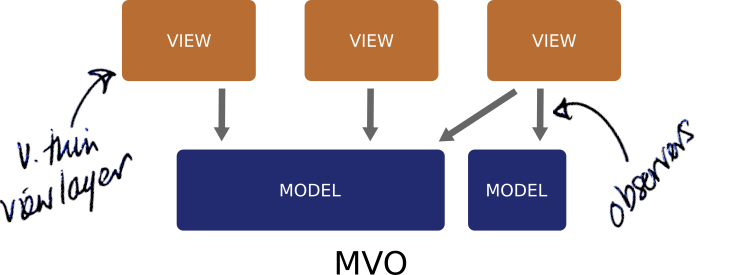
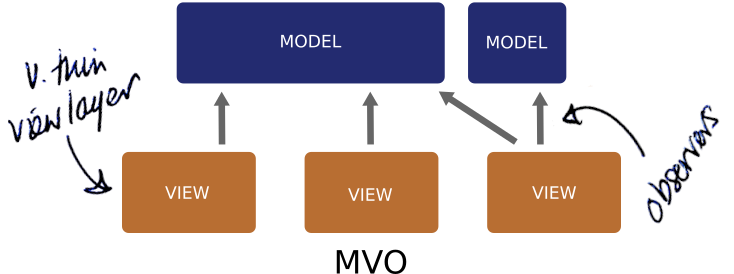
docs

diff --git a/docs/README.md b/docs/README.md
@@ -43,7 +43,13 @@ There are also a few tutorials on dev.to [like this one](https://dev.to/erdo/tut
 
 ## Overview
 
-The main innovation in **fore** is its radically simplified observer implementation. This lets you separate architectural layers to a degree that would not normally be possible. It also encourages the development of genuinely reactive code at the view layer (you can't use the API to replace a callback with a Single&lt;Boolean&gt; and think you're done for example - what you would have there is just another callback, not reactive code per se).
+Imagine your app existing entirely separately from its UI (its UI could be a command line interface, or a GUI - the app shouldn't care or even know what type of UI it has). Then imagine the UI layer as a thin window on to this app, free to deal exclusively with _what things look like_.
+
+This is a goal of a lot of architectures and it's a great way to develop anything that has a UI. It's especially helpful for a platform like android with its ephemeral view layer that gets destroyed and recreated on rotation. It also lets you unit test almost everything, the UI layer becoming as close to trivial as possible.
+
+## Observability is the key
+
+The main innovation in **fore** is its radically simplified observer implementation. This lets you separate architectural layers to a degree that would not normally be possible.
 
 Fore's observable classes let you **make anything observable** (usually it's repositories or classes in the domain layer that are made **observable**, and things in the view layer like activities, fragments or custom views do the **observing**).
 
@@ -161,7 +167,9 @@ override fun syncView() {
 
 Here's a very basic example from one of the example kotlin apps included in the fore repo: [View](https://github.com/erdo/android-fore/blob/master/example-kt-01reactiveui/src/main/java/foo/bar/example/forereactiveuikt/ui/wallet/WalletsActivity.kt) and [Model](https://github.com/erdo/android-fore/blob/master/example-kt-01reactiveui/src/main/java/foo/bar/example/forereactiveuikt/feature/wallet/Wallet.kt) code, and the tests: a [Unit Test](https://github.com/erdo/android-fore/blob/master/example-kt-01reactiveui/src/test/java/foo/bar/example/forereactiveuikt/feature/wallet/WalletTest.kt) for the Model, and an [Espresso Test](https://github.com/erdo/android-fore/blob/master/example-kt-01reactiveui/src/androidTest/java/foo/bar/example/forereactiveuikt/ui/wallet/WalletsActivityTest.kt) for the View
 
-The view layer tends to be particularly sparse when implementing MVO with **fore**, and the apps are highly scalable from a complexity standpoint, so **fore** works for both quick prototypes, and large complex commercial projects with 100K+ lines of code.
+In that example the wallet state is being exposed via getters / properties, but the state could just as well be exposed via a single immutable state - it's entirely up to you how to write your code, it makes no difference to the syncView() technique.
+
+**fore** enables you to write view layers that are particularly sparse, and the apps are highly scalable from a complexity standpoint. This makes **fore** suitable for both quick prototypes, and large complex commercial projects with 100K+ lines of code.
 
  Specifically _why_ it is that apps written this way are both sparse _and_ scalable is not always immediately obvious. This [discussion](https://erdo.github.io/android-fore/03-reactive-uis.html#somethingchanged-parameter) gets into the design of the **fore** api and why it drastically reduces boiler plate for a typical android app compared with alternatives. Some of the dev.to tutorials (see above) also touch on this. But these are subtle, advanced topics that are not really necessary to use **fore** at all - most of the actual code in the fore library is quite simple.
 
@@ -176,7 +184,7 @@ In a nutshell, developing with **fore** means writing:
 
 > "Observable **Models**; **Views** doing the observing; and some **Reactive UI** tricks to tie it all together"
 
-In [**MVO**](https://erdo.github.io/android-fore/00-architecture.html#shoom) (like with most MV* architectures) the model knows nothing about the View. When the view is destroyed and recreated, the view re-attaches itself to the model in line with the observer pattern and syncs its view. Any click listeners or method calls as a result of user interaction are sent directly to the relevant model. With this architecture you remove a lot of problems around lifecycle management and handling rotations, it also turns out that the code to implement this is a lot less verbose **(and it's also very testable and scalable)**.
+In [**MVO**](https://erdo.github.io/android-fore/00-architecture.html#shoom) (like with most MV* architectures) the model knows nothing about the View. When the view is destroyed and recreated, the view re-attaches itself to the model in line with the observer pattern and syncs its view. Any click listeners or method calls as a result of user interaction are sent directly to the relevant model (be that an application level scoped model, or a ViewModel). With this architecture you remove a lot of problems around lifecycle management and handling rotations on android, it also turns out that the code to implement this is a lot less verbose **(and it's also very testable and scalable)**.
 
 **There are a few important things in MVO that allow you an architecture this simple:**
 
@@ -187,9 +195,9 @@ In [**MVO**](https://erdo.github.io/android-fore/00-architecture.html#shoom) (li
 
 If you totally grok those 4 things, that's pretty much all you need to use **fore** successfully, the [**code review guide**](https://erdo.github.io/android-fore/05-extras.html#troubleshooting--how-to-smash-code-reviews) should also come in handy as you get up to speed, or you bring your team up to speed.
 
-The **fore** library also includes some testable wrappers for AsyncTask (that Google should have provided, but didn't): [**Async**](https://erdo.github.io/android-fore/04-more-fore.html#asynctasks-with-lambdas) and [**AsyncBuilder**](https://erdo.github.io/android-fore/04-more-fore.html#asyncbuilder) - which support lambdas, making using them alot nicer to use.
+The **fore** library also includes a few fore [extension functions](https://github.com/erdo/android-fore/blob/master/fore-core-kt/src/main/java/co/early/fore/kt/core/coroutine/Ext.kt) that are all you need to use coroutines in a way that makes them completely testable (something that is [still](https://github.com/Kotlin/kotlinx.coroutines/pull/1206), [pending](https://github.com/Kotlin/kotlinx.coroutines/pull/1935) in the official release).
 
-If you've moved over to using coroutines already, a few fore [extension functions](https://github.com/erdo/android-fore/blob/master/fore-core-kt/src/main/java/co/early/fore/kt/core/coroutine/Ext.kt) are all you need to use coroutines in a way that makes them completely testable (something that is [still](https://github.com/Kotlin/kotlinx.coroutines/pull/1206) [pending](https://github.com/Kotlin/kotlinx.coroutines/pull/1935) in the official release).
+For Java development, there are some testable wrappers for AsyncTask (that Google should have provided, but didn't) [**Async**](https://erdo.github.io/android-fore/04-more-fore.html#asynctasks-with-lambdas) and [**AsyncBuilder**](https://erdo.github.io/android-fore/04-more-fore.html#asyncbuilder) - which support lambdas, making threads very easy to use.
 
 There are also optional extras that simplify [**adapter animations**](https://erdo.github.io/android-fore/04-more-fore.html#adapter-animations) and abstract your networking layer when using [**Retrofit2**, **Ktor** or **Apollo**](https://erdo.github.io/android-fore/04-more-fore.html#fore-network). **fore** works really well with RoomDB too, checkout the sample app for details.
 
@@ -197,7 +205,7 @@ There are also optional extras that simplify [**adapter animations**](https://er
 
 ![all samples](img/screenshot_asaf_samples_phone_all_1000.png)
 
-The apps here are deliberately sparse and ugly so that you can see exactly what they are doing. These are not examples for how to nicely structure XML layouts or implement ripple effects - all that you can do later in the **View** layers and it should have no impact on the stability of the app.
+The mini example apps included with the repo are deliberately sparse and ugly so that you can see exactly what they are doing. These are not examples for how to nicely structure XML layouts and they are not written using jetpack compose yet - all that you can do later in the **View** layers and it should have no impact on the stability of the app.
 
 These apps are however, totally robust and comprehensively tested (and properly support rotation). And that's really where you should try to get to as quickly as possible, so that you can **then** start doing the fun stuff like adding beautiful graphics and cute animations.
 
@@ -226,7 +234,7 @@ In the app you move money from a "Savings" wallet to a "Mobile" wallet and then 
 
 This one demonstrates asynchronous programming, and importantly how to test it. The **java** version uses ([Async](https://erdo.github.io/android-fore/04-more-fore.html#async) and [AsyncBuilder](https://erdo.github.io/android-fore/04-more-fore.html#asyncbuilder)), the **kotlin** version uses coroutines (with some [fore extensions](https://github.com/erdo/android-fore/blob/master/fore-core-kt/src/main/java/co/early/fore/kt/core/coroutine/Ext.kt) that make the coroutines unit testable). Again, it's a bare bones (but complete and tested) app - just the minimum required to demonstrate asynchronous programming.
 
-This app has a counter that you can increase by pressing a button (but it takes time to do the increasing - so you can rotate the device, background the app etc and see the effect). There are two methods demonstrated: one which uses lambda expressions (for java), and one which publishes progress.
+This app has a counter that you can increase by pressing a button (but it takes time to do the increasing - so you can rotate the device, background the app etc and see the effect).
 
 <div class="shoom" id="fore-3-adapter-example"/>
 ### **fore 3** Adapter Example
@@ -235,13 +243,13 @@ This app has a counter that you can increase by pressing a button (but it takes 
 
 ![fore adapters sample app](img/fore-android-sample-adapters.gif)
 
-This one demonstrates how to use [**adapters**](https://erdo.github.io/android-fore/04-more-fore.html#adapter-animations) with **fore** (essentially call notifyDataSetChanged() inside the syncView() method).
-
-To take advantage of the built in list animations that Android provides. Once you have set your adapter up correctly, you can instead call notifyDataSetChangedAuto() inside the syncView() method and **fore** will take care of all the notify changes work. (You could also use **fore**'s notifyDataSetChangedAuto() to do this for you from your render() function if you're using MVI / MvRx or some flavour of Redux).
+This one demonstrates how to use [**adapters**](https://erdo.github.io/android-fore/04-more-fore.html#adapter-animations) with **fore**.
 
 The **java** sample has two lists side by side so you can see the how the implementation differs depending on if you are backed by immutable list data (typical in architectures that use view states such as MVI) or mutable list data. As usual it's a complete and tested app but contains just the minimum required to demonstrate adapters.
 
 The **kotlin** version has three lists, adding an implementation of google's **AsyncListDiffer**. All three implementations have slightly different characteristics, most notably the google version moves logic out of the model and into the adapter (that's why it doesn't automatically support rotation - but it could be added easiy enough by passing an external list copy to the adapter). Check the source code for further infomation.
+
+The UI for each app is deliberately challenging to implement on android, and although it's ugly, the UI lets you smash buttons to not only add and remove multiple items, but also to change the state of each item in the list. All changes are animated, it supports rotation, it's totally robust and the UI layer is extremely thin for both apps.
 
 
 <div class="shoom" id="fore-4-retrofit-example"/>
@@ -262,7 +270,7 @@ As usual this is a complete and tested app. In reality the tests are probably mo
 <div class="shoom" id="fore-7-apollo-example"/>
 ### **fore 7** Apollo Example
 [source code (kotlin)](https://github.com/erdo/android-fore/tree/master/example-kt-07apollo)
-In a similar vein we have a networking sample that integrates with a GraphQL API using Apollo. Includes the ability to chain network calls together, support rotation, handle all error conditions gracefully, and is competely testable / tested (Unit tests and UI tests)
+In a similar vein we have a networking sample that integrates with a GraphQL API using Apollo. Includes the ability to chain network calls together, support rotation, handle all error conditions gracefully, and is competely testable / tested (Unit tests and UI tests) and of course has a wafer thin UI layer.
 
 <div class="shoom" id="fore-8-ktor-example"/>
 ### **fore 8** Ktor Example
@@ -287,9 +295,9 @@ A To-do list on steroids that lets you:
 
 It's obviously ridiculously contrived, but the idea is to implement something that would be quite challenging and to see how little code you need in the view layer to do it.
 
-It is driven by a Room db, and there are a few distinct architectural layers: as always there is a view layer and a model layer (in packages ui and feature). There is also a networking and a persistence layer. The UI layer is driven by the model which in turn is driven by the db.
+It is driven by a Room db, and there are a few distinct architectural layers: as always there is a view layer and a model layer (in packages: ui and feature). There is also a networking and a persistence layer. The UI layer is driven by the model which in turn is driven by the db.
 
-All the database changes are done away from the UI thread, RecyclerView animations using DiffUtil are supported (for lists below 1000 rows), the app is totally robust and supports rotation out of the box. There is a TodoListModel written in Java and one in Kotlin for convenience, in case you are looking to use these as starting points for your own code.
+All the database changes are done away from the UI thread, RecyclerView animations using DiffUtil are supported (for lists below 1000 rows), the app is totally robust and supports rotation out of the box.
 
 There is only one test class included with this app which demonstrates how to test Models which are driven by a Room DB (using CountdownLatches etc). For other test examples, please see sample apps 1-4
 

diff --git a/docs/00-architecture.md b/docs/00-architecture.md
@@ -8,7 +8,7 @@ This little library helps you implement an architecture we call **MVO (Model Vie
 
 That block diagram above is what MVO looks like (it's simplified of course, further details below).
 
-By [**Model**](https://erdo.github.io/android-fore/02-models.html#shoom) we mean the standard definition of a software model, there are no particular restrictions we will put on this model other than it needs to be somehow observable (when it changes, it needs to tell everyone observing it, that it changed) and it needs to expose its state via quick returning getter methods. The model can have application level scope, or it can be a View-Model - it makes no difference from an MVO perspective. (But mostly with MVO we are talking about application level things like AccountModel, MessageInboxRepository, TodoListManager, Favourites etc).
+By [**Model**](https://erdo.github.io/android-fore/02-models.html#shoom) we mean the standard definition of a software model, there are no particular restrictions we will put on this model other than it needs to be observable (when it changes, it needs to tell everyone observing it, that it changed) and it needs to expose its state somehow, via quick returning getters, properties or a single immutable state. The model can have application level scope, or it can be a View-Model - it makes no difference from an MVO perspective. (But mostly with MVO we are talking about application level things like AccountModel, MessageInboxRepository, TodoListManager, Favourites etc).
 
 By [**Observer**](https://en.wikipedia.org/wiki/Observer_pattern) we mean the standard definition of the Observable pattern. In MVO, the Views observe the Models for any changes. (This has nothing to do with Rx by the way, though you could implement an MVO architecture using Rx if you wanted to).
 
@@ -38,7 +38,7 @@ Notice the syncView() method does not take a parameter. It gets all it needs fro
 
 If you prefer using immutable state, just have your model expose that state via a property or a getter: (gameModel.currentState.score).
 
-*For the avoidance of doubt, most non-trivial apps will of course have more layers behind the model layer, typically you'll have some kind of repository, a networking abstraction etc. There are two slightly larger, more commercial style app examples to check out, though they are starting to get a little out of date: one in [Kotlin](https://github.com/erdo/fore-full-example-02-kotlin) and another in [Java](https://github.com/erdo/android-architecture) (which has a [tutorial](https://dev.to/erdo/tutorial-android-architecture-blueprints-full-todo-app-mvo-edition-259o) to go along with it).*
+*For the avoidance of doubt, most non-trivial apps will of course have more layers behind the model layer, typically you'll have some kind of repository, a networking abstraction etc. There are two slightly larger, more commercial style app examples to check out: one in [Kotlin](https://github.com/erdo/fore-full-example-02-kotlin) and another in [Java](https://github.com/erdo/android-architecture) (which has a [tutorial](https://dev.to/erdo/tutorial-android-architecture-blueprints-full-todo-app-mvo-edition-259o) to go along with it).*
 
 In a nutshell this is what we have with MVO:
 
@@ -64,7 +64,7 @@ If your team is getting on well with MVVM, here is where the ViewModel would fit
 
 ![data binding](img/app_arch_2_viewmodel.png)
 
-The Mobile Wallet Model / Wallet Fragment section of that diagram matches what is happening in [**sample app 1**](https://erdo.github.io/android-fore/#fore-1-reactive-ui-example). Here are the relevant bits of code: the [**observable model code**](https://github.com/erdo/android-fore/blob/master/example-kt-01reactiveui/src/main/java/foo/bar/example/forereactiveuikt/feature/wallet/Wallet.kt) and the [**view code**](https://github.com/erdo/android-fore/blob/master/example-kt-01reactiveui/src/main/java/foo/bar/example/forereactiveuikt/ui/wallet/WalletsActivity.kt) that does the observing. (That's the expressive style of doing things so that you can easily see what is happening, even that boilerplate is [optional](https://erdo.github.io/android-fore/03-reactive-uis.html#boiler-plate) though)
+The Mobile Wallet Model / Wallet Fragment section of that diagram matches what is happening in [**sample app 1**](https://erdo.github.io/android-fore/#fore-1-reactive-ui-example). Here are the relevant bits of code: the [**observable model code**](https://github.com/erdo/android-fore/blob/master/example-kt-01reactiveui/src/main/java/foo/bar/example/forereactiveuikt/feature/wallet/Wallet.kt) and the [**view code**](https://github.com/erdo/android-fore/blob/master/example-kt-01reactiveui/src/main/java/foo/bar/example/forereactiveuikt/ui/wallet/WalletsActivity.kt) that does the observing. (That's the expressive style of doing things so that you can easily see what is happening, even that boilerplate is [optional](https://erdo.github.io/android-fore/03-reactive-uis.html#boiler-plate) though, this is what an implementation of the [**same view**](https://github.com/erdo/persista/blob/main/example-app/src/main/java/foo/bar/example/ui/wallet/WalletsActivity.kt) looks like with the add and remove boiler plate removed).
 
 One great thing about MVO is that the view layer and the rest of the app are so loosely coupled, that supporting rotation already works out of the box. In the code examples above, the code just works if you rotate the screen simply because of how it's structured - you don't need to do a single thing.
 
@@ -72,14 +72,11 @@ One great thing about MVO is that the view layer and the rest of the app are so 
 
 The code looks extremely simple and it is, but surprisingly the technique works the same if you're using android adapters, or if you're doing asynchronous work in your model, or fetching data from a network.
 
-## Handling State
-In MVO, the state is kept inside the models, typically accessible via getter methods or properties. If you prefer exposing your model's state using an immutable data class for example, you can of course do that - but it must still be accessible via a property or a getter. That's how the clean architecture sample is written incidentally.
-
 ## Dependency arrows
 
 As with all M* architectures, with MVO the Model knows nothing about the View. When the view is destroyed and recreated, the view re-attaches itself to the model using the observer pattern. Any click listeners or method calls as a result of user interaction are sent directly to the relevant model or an intemediary viewModel (from the UI thread - asynchronous code is managed in the models, not at the UI layer). With this architecture you remove a lot of problems around lifecycle management and handling rotations, it also turns out that the code to implement this is a lot less verbose **(and it's also very testable and scalable)**.
 
-Sometimes you really will want to scope a model to just a single activity (although you might be surprised at how rarely this is genuinely useful - look at how much code we removed using the MVO approach on the [android architecture blueprints](https://dev.to/erdo/tutorial-android-architecture-blueprints-full-todo-app-mvo-edition-259o) for example). Anyway, if you decide that's what your app needs at that moment, use a ViewModel and make it observable using the *fore* Observable as you would with any other Model. If you are injecting your ViewModels in to the view layer and using fore observables to synchronize your UI, the view layer will not even be aware of what type of model it is anyway.
+Sometimes you really will want to scope a model to just a single activity (although you might be surprised at how rarely this is genuinely useful - look at how much code we removed using the MVO approach on the [android architecture blueprints](https://dev.to/erdo/tutorial-android-architecture-blueprints-full-todo-app-mvo-edition-259o) for example). Anyway, if you decide that's what your app needs at that moment, use a ViewModel and make it observable using a **fore** Observable as you would with any other Model. If you are injecting your ViewModels in to the view layer and using fore observables to synchronize your UI, the view layer will not even be aware of what type of model it is anyway.
 
 **There are a few important things in MVO that allow you an architecture this simple:**
 

diff --git a/docs/05-extras.md b/docs/05-extras.md
@@ -79,9 +79,9 @@ A more standard way of looking at UI frameworks would have been to do something 
 
 ![horizontal separation](img/horizontal-separation.png)
 
-I know, crap diagrams, but anyway a lot of the complication of Android development comes from treating the Activity class as some kind of reusable modular component and not as a thin view layer (which is what it really is).  Hacks like onSaveInstanceState() etc, are the result of fundamentally missing the basic requirement of (all?) UI platforms: the need to separate the view layer from everything else.
+I know, crap diagrams, but anyway a lot of the complication of Android development comes from treating the Activity class as some kind of reusable modular component and not as a thin, ephemeral view layer (which is what it really is).  Hacks like onSaveInstanceState() etc, are the result of fundamentally missing the basic requirement of (all?) UI platforms: the need to separate the view layer from everything else.
 
-Despite the obvious problems of writing networking code or asynchronous code inside an ephemeral view layer, think about how many Android apps you've encountered that fill their Activity and Fragment classes with exactly that. And think about how much additional code is then required to deal with a simple screen rotation (or worse, how many apps simply disable screen rotation because of the extra headache). Sometimes even smart developers can fail to see the wood for all the trees.
+Despite the obvious problems of writing networking code or maintaining non-UI state inside an ephemeral view layer, think about how many Android apps you've encountered that fill their Activity and Fragment classes with exactly that. And think about how much additional code is then required to deal with a simple screen rotation (or worse, how many apps simply disable screen rotation because of the extra headache). How many times have you seen similar code that exists purely to enable android's ephemeral view components to communicate with each other? (instead of having the view components communicate with application scoped models or viewmodels, leaving the views to simply represent the current state of the app). Sometimes even smart developers can fail to see the wood for all the trees.
 
 Fortunately it's almost all completely unecessary. The [sample apps](https://erdo.github.io/android-fore/#sample-apps) should clearly demonstrate just how clean android code can become once you start properly separating view code from everything else.
 
@@ -255,7 +255,7 @@ A quick way to check how your Java code is doing on this front is to look for th
 
 ### Inversion of Control
 
-This term really confused me when I first heard it years ago, so here's my take in case it's helpful for you.
+This term really confused me when I first heard it years ago, so here's my take in case it's helpful for you or your team.
 
 Imagine if we have a company. It has a CEO at the top. Underneath the CEO are departments like Marketing, HR, Finance. Those departments all print documents using a printer.
 
@@ -269,7 +269,7 @@ Inversion of control means turning that control on its head and giving it to the
 
 ## <a name="observer-listener"></a> 1) When should I use an Observer, when should I use a callback listener?
 
-**Note: I am personally on the fence about this, it is certainly more convenient sometimes to just have a callback from a model for: event based / transitory data - but you really need to know what you are doing to make that judgement. If you'd rather take that decision out of the hands of more junior developers, not allowing any callbacks in model APIs is one approach. It would mean that you would have to expose this event based data via getters or properties, and you would need to use something like a [syncTrigger](https://erdo.github.io/android-fore/01-views.html#synctrigger) to convert the change of state into an event, suitable for displaying in a toast for example. Basically: more complicated, but also more consistent with how regular state is handled.**
+Note: I am personally on the fence about this, it is certainly more convenient sometimes to just have a callback from a model for: event based / transitory data - but you really need to know what you are doing to make that judgement. If you'd rather take that decision out of the hands of more junior developers, not allowing any callbacks in model APIs is one approach. It would mean that you would have to expose this event/transitory based data via regaulr getters or properties exposing state, and you would need to use something like a [syncTrigger](https://erdo.github.io/android-fore/01-views.html#synctrigger) to convert a **change of state** into an **event**, suitable for displaying in a toast for example. Basically: more complicated, but also more consistent with how regular state is handled. In case this is unfamiliar to you, there is a little presentation [here](http://state-event.surge.sh/) (click **s** to view the presentation notes) that discusses the relationship between state and events.
 
 So having said that: if you are looking to receive a one off success/fail result from a model as a direct result of the model performing some operation (like a network request) then a regular callback may serve you better. In this case the success or failure of the network call does not alter any fundamental state of the model, so a callback / listener will also work fine. *This means that the success / fail callback may be lost if the device is rotated - if that's a problem, then you'll need to treat things as state and use the Observer pattern*. More about how to treat state [**here**](https://erdo.github.io/android-fore/05-extras.html#state-versus-events).
 

diff --git a/docs/02-models.md b/docs/02-models.md
@@ -38,12 +38,11 @@ For reference here's a check list of recommendations for the model classes, as u
 - In fact **the less the models knows about Android the better**
 - Any **callback/listener** references passed to the model via methods need to be used and then cleared as quickly as possible within the model itself (callbacks may contain references to contexts and leak memory so you don't want to keep them around).
 - Where it's reasonable, prefer the [observer](https://erdo.github.io/android-fore/03-reactive-uis.html#fore-observables) pattern over callbacks / listeners
-- In MVO, the model's current **state at any point in time is typically exposed by getters**. These are used by the View classes to ensure they are displaying the correct data, and by the test classes to ensure the model is calculating its state correctly.
+- In MVO, the model's current **state at any point in time is typically exposed by getters or properties**. These are used by the View classes to ensure they are displaying the correct data, and by the test classes to ensure the model is calculating its state correctly.
 - You'll **save yourself the need to write a lot of tricky thread safety code** by keeping access to your models on the UI thread (or test thread), user interaction like clicks will all come through on the UI thread anyway. Where you need asynchronous operation for db or network access etc, make it explicit and obvious, then return to the UI thread once you are done.
 - The **getters must return quickly**. Don't do any complicated processing here, just return data that the model should already have. i.e. front load the processing and do work in setter type methods if necessary, not the getters
 - When any data in your model changes, inside the model code call **notifyObservers()** after the state has changed.
-- The models should make good use of [dependency injection](https://erdo.github.io/android-fore/05-extras.html#dependency-injection-basics) (via constructor arguments ideally). Any dependency that is not being injected will be difficult to mock for a test. Android's AsyncTask has this problem, but **fore**'s [Async classes](https://erdo.github.io/android-fore/04-more-fore.html#asynctasks-with-lambdas) go a long way to alleviating this.
+- The models should make good use of [dependency injection](https://erdo.github.io/android-fore/05-extras.html#dependency-injection-basics) (via constructor arguments ideally). Any dependency that is not being injected will be difficult to mock for a test.
 - Written in this way, the models will already be testable but it's worth highlighting **testability** as a specific goal. The ability to thoroughly test model logic is a key part of reducing unecessary app bugs.
-- If the models are to be observable, they can do this in one of 2 main ways. They may simply extend from **ObservalbleImp** or they can implement the **Observable interface** themselves, passing the addObservable() and removeObservable() method calls to an ObservableImp that they keep a reference to internally. Kotlin also lets you use a **delegate** [like this](https://github.com/erdo/fore-full-example-02-kotlin/blob/master/app/src/main/java/foo/bar/example/fore/fullapp02/feature/basket/BasketModel.kt).
 - Do check out [When should I use an Observer, when should I use a callback listener?](https://erdo.github.io/android-fore/05-extras.html#observer-listener) in the FAQs to double check you're making the right choice for your model.
 - (For models written in Java specifically), it's very useful to immediately **crash in your model constructor if any caller tries to send you null objects**. Your constructor is your public interface and could be used by anyone. You can help other developers out by immediately crashing here rather than sometime later, when the cause might not be so obvious. In the sample Java apps, this is done with the **Affirm.notNull()** call.

diff --git a/docs/03-reactive-uis.md b/docs/03-reactive-uis.md
@@ -187,7 +187,7 @@ For some specific use cases: handling streams of changing data, which you want t
 
 You certainly _can_ treat everything as a reactive stream if you wish, and if parts of your app actually aren't a great match for reactive streams, you can just have your functions return a Single&lt;Whatever&gt; anyway. Regular code that touches reactive streams often gets _reactive-streamified_ like this (even code that isn't, and has no need to be, reactive in the first place). By the way, in case callback-hell is a worry, there are some pretty decent ways of [handling that](https://dev.to/erdo/tutorial-kotlin-coroutines-retrofit-and-fore-3874#quick-refresher-on-callback-hell) in kotlin nowadays regardless of reactive streams.
 
-Anyway, it's entirely possible to treat these two concepts separately. We can consider a piece of code's _observable nature_, separate to the _data that actually changed_ (that's what fore does). This means your function signatures don't have to change, you can continue returning a Boolean if that's what you need to do, and Observable&lt;Somethings&gt; won't slowly spread throughout your code base. This separation also has some pretty stunning advantages in terms of boiler plate written in the view layer as we'll see...
+Anyway, it's entirely possible to treat these two concepts separately. We can consider a piece of code's _observable nature_ separate to the _data that actually changed_ (that's what **fore** does). This means your function signatures don't have to change, you can continue returning a Boolean if that's what you need to do, and Observable&lt;Somethings&gt; won't slowly spread throughout your code base. This separation **also** has some pretty stunning advantages in terms of boiler plate written in the view layer as we'll see...
 
 ### Views want different things from the same model
 Usually, view layer components are going to want different things from the same model.
